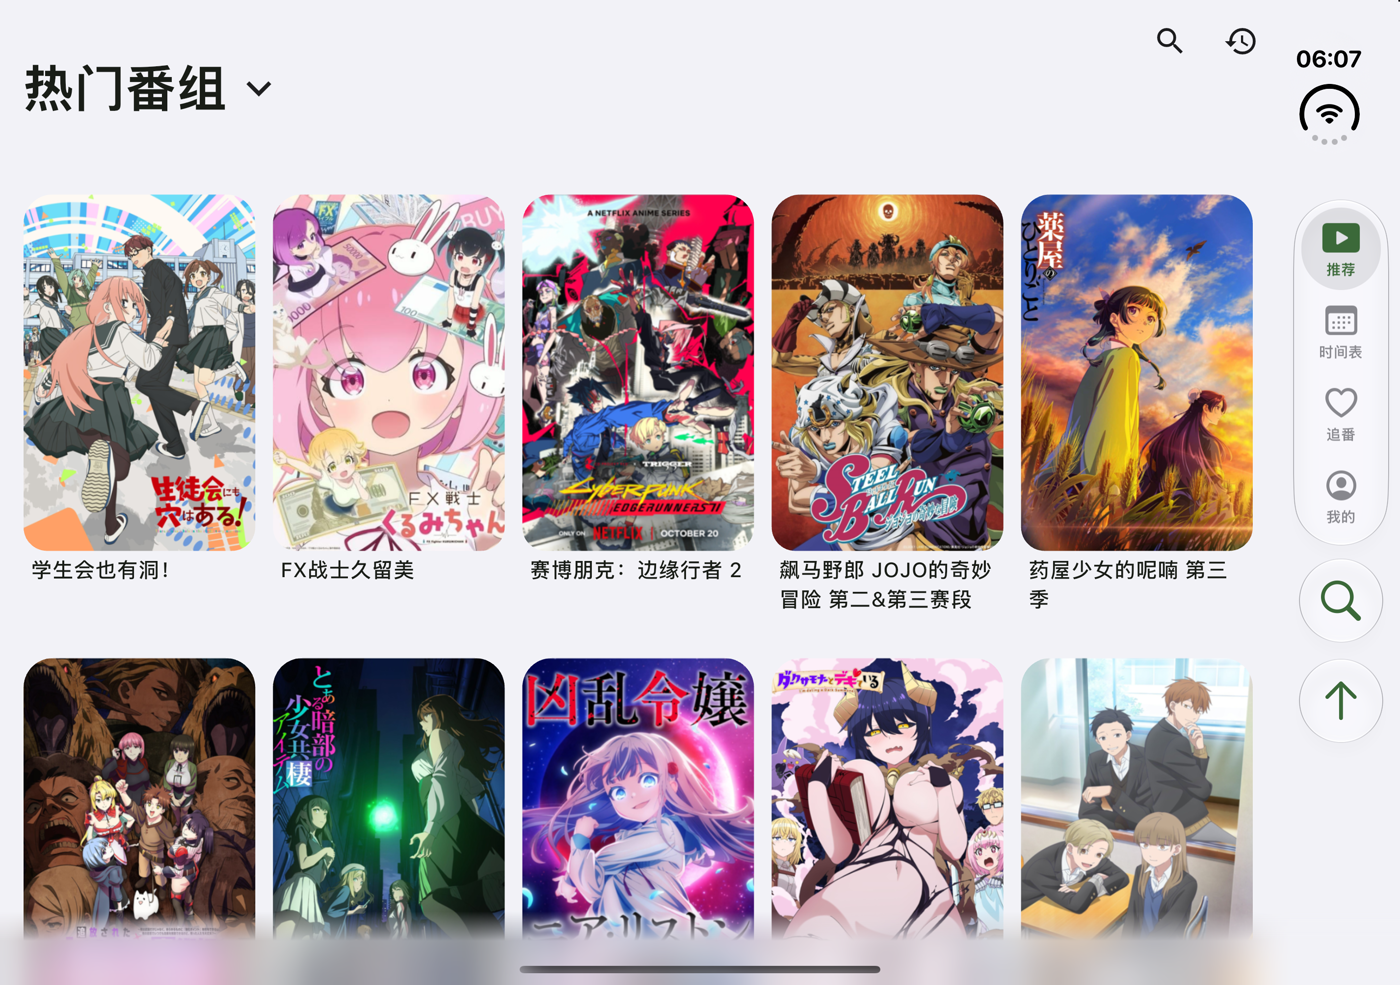
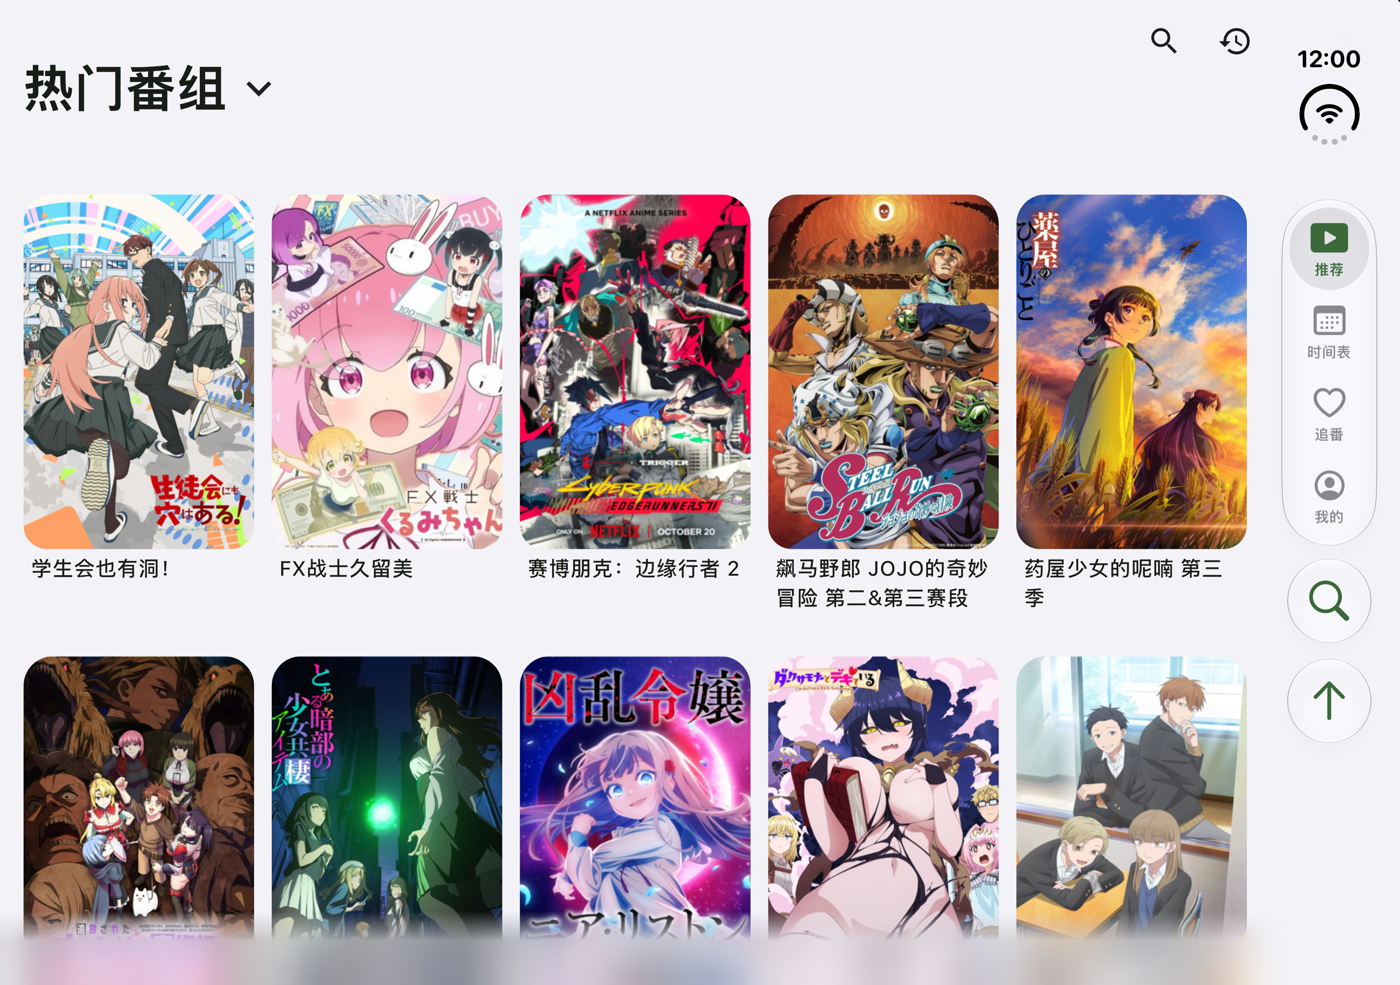
docs: verify test.11 alignment and refresh screenshots

diff --git a/design-qa.md b/design-qa.md
@@ -54,4 +54,5 @@ passed
 - 外屏以系统报告的圆形相机遮挡中心为中轴；不再把相机区域与较宽的状态区预留矩形合并后居中。导航、搜索、返回顶部共享同一横向位置，内容边距同步调整。
 - 无相机遮挡的侧边状态区按模拟器像素测量补偿外侧留白；原始区域中轴比可见图标向外偏 6pt。覆盖左右侧布局，普通底部导航不变。
 - 24 项相关 Flutter 测试通过，包含外屏相机、内屏状态区与左右中轴计算、导航切换及滚动边缘。静态分析维持 17 条已有 info，无 error/warning。模拟器 Debug 与设备 Release 编译成功。
-- 已读取 UIKit 27.1 区域坐标并测量原始截图。最终修正版的旋转/折叠视觉复核因 Mac 锁屏未完成，待解锁后补查；本次未更新仓库中的旧版实际运行截图，未进行真机安装验证。
+- 解锁后已完成最终修正版的内外屏展开/闭合与旋转视觉复核。外屏 Wi-Fi、选中标签、回顶箭头中轴均为 418.0pt；内屏 Wi-Fi 为 903.0pt、标签为 902.83pt、回顶为 902.67pt，误差小于 0.5pt。无控件遮挡；空间不足时正常切换为底栏或保留悬浮回顶按钮。
+- 已更新仓库中的内外屏推荐实际截图。完整截图与外屏效果图位于 `/private/tmp/kazumi-test11-qa`。本次未进行物理设备安装验证。

diff --git a/README.md b/README.md
@@ -39,7 +39,7 @@
     <th width="33%">分组设置</th>
   </tr>
   <tr>
-    <td><img src="static/screenshot/home-outer.png" alt="test.10 外屏推荐页与玻璃侧栏" width="100%"></td>
+    <td><img src="static/screenshot/home-outer.png" alt="test.11 外屏推荐页与玻璃侧栏" width="100%"></td>
     <td><img src="static/screenshot/details-outer.png" alt="test.9 番剧详情与开始观看按钮" width="100%"></td>
     <td><img src="static/screenshot/settings-outer.png" alt="test.10 分组设置页" width="100%"></td>
   </tr>
@@ -47,7 +47,7 @@
 
 **展开内屏 · 自适应内容与侧栏**
 
-<img src="static/screenshot/home-inner.png" alt="test.10 展开内屏的推荐页" width="100%">
+<img src="static/screenshot/home-inner.png" alt="test.11 展开内屏的推荐页" width="100%">
 
 <table>
   <tr>
